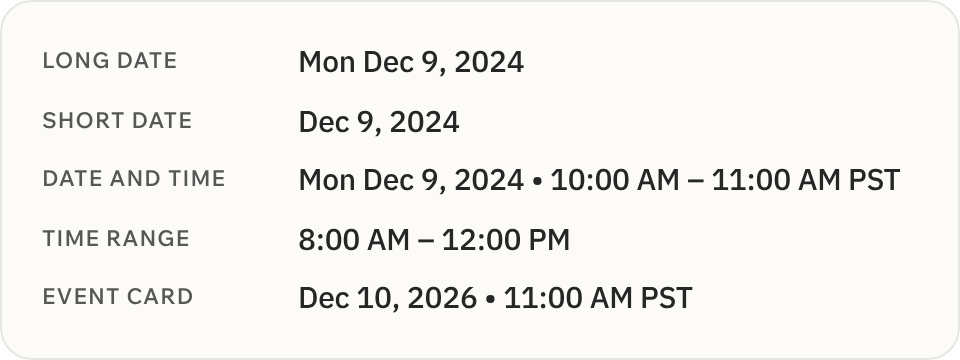
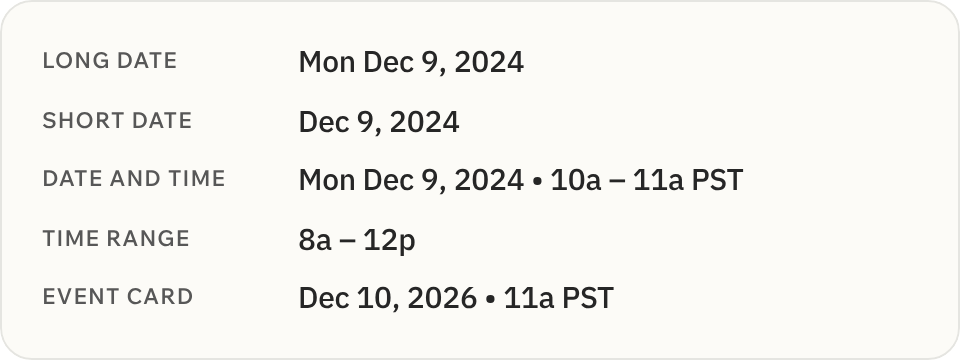
Short times (9a PST) on cards and drawers; comparison tabs scroll like Tabs
- The shared time format is now the short form: the hour and a lowercase a or p ("9a", "12p"), minutes only when they aren't :00 ("9:30a"), ranges with a spaced en dash ("8a – 12p"), then the time zone. Event and webinar cards show "Dec 10, 2026 • 11a PST"; drawer cards "8a – 12p"; the calendar list uses the same. Other spellings ("9:00 AM", "Noon") are rewritten. The calendar's time column is 170px (150px on tablet). Content guide and its date picture updated.
- FeatureMatrix and DetailComparison: the mobile competitor tabs are Tabs, so a tapped competitor near the edge scrolls to the middle and the last rests on the right. The previews get a fifth competitor so the tabs overflow and show it.

Why: EventCard: use the 9a PST format, including after the date
Why: EventCalendar: grid cards and times use the 9a PST format
Why: WebinarCard: dates and times match the event cards (9a PST)
Why: DrawerCard: use the 9a PST format, like the event cards
Why: Accordion: its session cards are drawer cards, so their times use the 9a format
Why: Carousel: its sample event card uses the 9a PST format
Why: Dates and times: the short 9a PST format is the one format for cards, drawers and the calendar
Why: FeatureMatrix: the mobile competitor tabs should scroll the tapped one to the middle, like Tabs
Why: DetailComparison: the mobile competitor tabs should scroll the tapped one to the middle, like Tabs
Why: Tabs: the comparison tables' competitor tabs behave the same
[…]

Changed region(s): [[0.5938, 0.4583, 0.9375, 0.55], [0.3125, 0.6111, 0.5938, 0.7028], [0.5625, 0.7944, 0.7188, 0.8556]]

diff --git a/ds/project/components/EventCalendar/preview.html b/ds/project/components/EventCalendar/preview.html
@@ -17,25 +17,25 @@ var logo = '/_blob/2f12addb8d68868ae064a58fad459a07';
 var who = [{name: 'Alex Morgan'}, {name: 'Priya Shah'}, {name: 'Sam Lee'}, {name: 'Dana Cruz'}];
 var events = [
   {id: 'd1', type: 'qualys', format: 'In-Person', title: 'QSC EMEA', start: '2024-12-03', end: '2024-12-05', href: '#'},
-  {id: 'd2', type: 'webinar', format: 'Virtual', title: 'Year in Review: The Vulnerabilities That Mattered', start: '2024-12-12', time: '10:00 AM – 11:00 AM PST', href: '#', speakers: who},
+  {id: 'd2', type: 'webinar', format: 'Virtual', title: 'Year in Review: The Vulnerabilities That Mattered', start: '2024-12-12', time: '10a – 11a PST', href: '#', speakers: who},
   {id: 'a1', type: 'industry', format: 'Virtual', title: 'Cloud Security Conference 2025', start: '2025-01-01', time: 'All day', href: '#', external: true},
-  {id: 'a2', type: 'industry', format: 'Virtual', title: 'Security Leaders Forum 2025', start: '2025-01-04', time: '9:00 AM – 5:00 PM PST', href: '#', external: true},
+  {id: 'a2', type: 'industry', format: 'Virtual', title: 'Security Leaders Forum 2025', start: '2025-01-04', time: '9a – 5p PST', href: '#', external: true},
   {id: 'a3', type: 'qualys', format: 'In-Person', title: 'QSC Americas', start: '2025-01-06', end: '2025-01-09', href: '#', flag: 'Upcoming'},
-  {id: 'a4', type: 'industry', format: 'Virtual', title: 'Scaling New Heights', start: '2025-01-08', time: '8:00 AM – 9:00 AM PST', href: '#', external: true},
-  {id: 'a5', type: 'webinar', format: 'Virtual', title: 'This Month in Vulnerabilities and Patches', start: '2025-01-09', time: '10:00 AM – 11:00 AM PST', href: '#', speakers: who},
-  {id: 'a6', type: 'training', format: 'In-Person', title: 'QSC Mumbai Training Day', start: '2025-01-13', time: '9:00 AM – 4:00 PM IST', href: '#'},
+  {id: 'a4', type: 'industry', format: 'Virtual', title: 'Scaling New Heights', start: '2025-01-08', time: '8a – 9a PST', href: '#', external: true},
+  {id: 'a5', type: 'webinar', format: 'Virtual', title: 'This Month in Vulnerabilities and Patches', start: '2025-01-09', time: '10a – 11a PST', href: '#', speakers: who},
+  {id: 'a6', type: 'training', format: 'In-Person', title: 'QSC Mumbai Training Day', start: '2025-01-13', time: '9a – 4p IST', href: '#'},
   {id: 'a7', type: 'qualys', format: 'In-Person', title: 'QSC Mumbai', start: '2025-01-13', end: '2025-01-15', href: '#'},
-  {id: 'a8', type: 'webinar', format: 'Virtual', title: 'Qualys Monthly Partner Webinar: New Qualys UI Features, RBAC Enhancements & EASM Risk Reports', start: '2025-01-14', time: '11:00 AM – 12:00 PM PST', href: '#', speakers: who.slice(0, 2)},
-  {id: 'a9', type: 'speaking', format: 'In-Person', title: 'Steps to TruRisk: Leveraging Qualys to Reduce Your Risk', start: '2025-01-17', time: '9:00 AM – 10:00 AM PST', href: '#'},
+  {id: 'a8', type: 'webinar', format: 'Virtual', title: 'Qualys Monthly Partner Webinar: New Qualys UI Features, RBAC Enhancements & EASM Risk Reports', start: '2025-01-14', time: '11a – 12p PST', href: '#', speakers: who.slice(0, 2)},
+  {id: 'a9', type: 'speaking', format: 'In-Person', title: 'Steps to TruRisk: Leveraging Qualys to Reduce Your Risk', start: '2025-01-17', time: '9a – 10a PST', href: '#'},
   {id: 'a10', type: 'industry', format: 'In-Person', title: 'Security Days 2025', start: '2025-01-21', end: '2025-01-23', href: '#', external: true},
-  {id: 'a11', type: 'webinar', format: 'Virtual', title: 'Beyond the Top 10: Advanced Security Strategies for Web Applications & APIs', start: '2025-01-22', time: '10:30 AM – 11:30 AM PST', href: '#', speakers: who},
-  {id: 'a12', type: 'webinar', format: 'Virtual', title: 'Securing Generative AI and LLMs with Qualys TotalAI', start: '2025-01-23', time: '4:10 PM – 4:50 PM PST', href: '#', speakers: who.slice(1), action: {label: 'Join Waitlist', variant: 'secondary-alt'}},
-  {id: 'a13', type: 'training', format: 'Virtual', title: 'VMDR Foundations Training', start: '2025-01-24', time: '9:00 AM – 12:00 PM PST', href: '#'},
-  {id: 'a14', type: 'webinar', format: 'Virtual', title: 'Accelerating Patch Remediation and Meeting SLAs', start: '2025-01-28', time: '8:00 AM – 9:00 AM PST', href: '#', speakers: who.slice(0, 3)},
-  {id: 'a15', type: 'speaking', format: 'Virtual', title: 'Measuring Cyber Risk in Business Terms', start: '2025-01-28', time: '11:00 AM – 12:00 PM PST', href: '#'},
-  {id: 'a16', type: 'webinar', format: 'Virtual', title: 'Securing Your Digital Transformation to the Cloud', start: '2025-01-29', time: '10:00 AM – 11:00 AM PST', href: '#', speakers: who},
+  {id: 'a11', type: 'webinar', format: 'Virtual', title: 'Beyond the Top 10: Advanced Security Strategies for Web Applications & APIs', start: '2025-01-22', time: '10:30a – 11:30a PST', href: '#', speakers: who},
+  {id: 'a12', type: 'webinar', format: 'Virtual', title: 'Securing Generative AI and LLMs with Qualys TotalAI', start: '2025-01-23', time: '4:10p – 4:50p PST', href: '#', speakers: who.slice(1), action: {label: 'Join Waitlist', variant: 'secondary-alt'}},
+  {id: 'a13', type: 'training', format: 'Virtual', title: 'VMDR Foundations Training', start: '2025-01-24', time: '9a – 12p PST', href: '#'},
+  {id: 'a14', type: 'webinar', format: 'Virtual', title: 'Accelerating Patch Remediation and Meeting SLAs', start: '2025-01-28', time: '8a – 9a PST', href: '#', speakers: who.slice(0, 3)},
+  {id: 'a15', type: 'speaking', format: 'Virtual', title: 'Measuring Cyber Risk in Business Terms', start: '2025-01-28', time: '11a – 12p PST', href: '#'},
+  {id: 'a16', type: 'webinar', format: 'Virtual', title: 'Securing Your Digital Transformation to the Cloud', start: '2025-01-29', time: '10a – 11a PST', href: '#', speakers: who},
   {id: 'f1', type: 'qualys', format: 'In-Person', title: 'QSC Europe', start: '2025-02-04', end: '2025-02-06', href: '#', flag: 'Upcoming'},
-  {id: 'f2', type: 'webinar', format: 'Virtual', title: 'Redesigned Qualys VMDR for ITSM: ServiceNow Integration Simplified', start: '2025-02-11', time: '10:00 AM – 11:30 AM PST', href: '#', speakers: who}
+  {id: 'f2', type: 'webinar', format: 'Virtual', title: 'Redesigned Qualys VMDR for ITSM: ServiceNow Integration Simplified', start: '2025-02-11', time: '10a – 11:30a PST', href: '#', speakers: who}
 ];
 var promo = {href: '#', logo: logo, icon: 'general-resource', title: 'Resource Center', description: 'Reports, guides and videos on measuring and reducing cyber risk.', cta: 'Visit Resource Center'};
 function cal(view, extra) {

diff --git a/ds/project/components/DetailComparison/preview.html b/ds/project/components/DetailComparison/preview.html
@@ -13,19 +13,19 @@
 var Q = window.Qualys, h = React.createElement;
 function cap(t) { return h('div', {className: 'cap'}, t); }
 var LOGO = '/_blob/a0d4062abbce2ceb87d5be08d326359f';
-var COLS = [{id: 'qualys', name: 'Qualys', logo: LOGO, subtitle: 'Optional Subheading'}, {id: 'wiz', name: 'Wiz', subtitle: 'Optional Subheading'}, {id: 'crowdstrike', name: 'CrowdStrike', subtitle: 'Optional Subheading'}, {id: 'paloalto', name: 'Palo Alto', subtitle: 'Optional Subheading'}, {id: 'rapid7', name: 'Rapid7', subtitle: 'Optional Subheading'}];
+var COLS = [{id: 'qualys', name: 'Qualys', logo: LOGO, subtitle: 'Optional Subheading'}, {id: 'wiz', name: 'Wiz', subtitle: 'Optional Subheading'}, {id: 'crowdstrike', name: 'CrowdStrike', subtitle: 'Optional Subheading'}, {id: 'paloalto', name: 'Palo Alto', subtitle: 'Optional Subheading'}, {id: 'rapid7', name: 'Rapid7', subtitle: 'Optional Subheading'}, {id: 'tenable', name: 'Tenable', subtitle: 'Optional Subheading'}];
 
 var A = 'Covers the entire Hybrid IT landscape, on-premises servers (Windows, Linux, Mac), workstations, 25% of servers, workstations, network devices, web applications, cloud assets, cloud databases, network devices, containers, cloud instances, and containers, etc.';
 var B = 'Covers servers, workstations, network devices, web applications, cloud assets, cloud databases, network devices, containers, cloud instances, and containers, cloud storage, smartphones, tablets, containers, and OT infrastructure.';
 var P = '[One or two sentences on how this vendor handles the topic.]';
-function all(v) { return {qualys: v, wiz: v, crowdstrike: v, paloalto: v, rapid7: v}; }
-var SECTIONS = [{title: 'Asset Coverage', open: true, heading: 'Optional Heading', copy: {qualys: A, wiz: A, crowdstrike: B, paloalto: B, rapid7: A}},
+function all(v) { return {qualys: v, wiz: v, crowdstrike: v, paloalto: v, rapid7: v, tenable: v}; }
+var SECTIONS = [{title: 'Asset Coverage', open: true, heading: 'Optional Heading', copy: {qualys: A, wiz: A, crowdstrike: B, paloalto: B, rapid7: A, tenable: B}},
   {title: '[Section Title]', heading: '[Optional Heading]', copy: all(P)}, {title: '[Section Title]', heading: '[Optional Heading]', copy: all(P)}, {title: '[Section Title]', heading: '[Optional Heading]', copy: all(P)}];
 function dc(extra) { return h(Q.DetailComparison, Object.assign({title: 'Heading', subtitle: 'Optional Subheading', columns: COLS, sections: SECTIONS}, extra)); }
 ReactDOM.createRoot(document.getElementById('root')).render(h('div', null,
   cap('Desktop: two competitors picked'), dc(),
   cap('Three competitors (the most)'), dc({defaultPicked: ['wiz', 'crowdstrike', 'rapid7'], sections: SECTIONS.slice(0, 2)}),
-  cap('Mobile: one competitor at a time'), h('div', {className: 'phones'}, h('div', {className: 'phone w390'}, dc()))));
+  cap('Mobile: one competitor at a time (tap one near the edge and the tabs scroll it to the middle)'), h('div', {className: 'phones'}, h('div', {className: 'phone w390'}, dc()))));
 </script>
 </body>
 </html>

diff --git a/ds/project/components/FeatureMatrix/preview.html b/ds/project/components/FeatureMatrix/preview.html
@@ -13,17 +13,17 @@
 var Q = window.Qualys, h = React.createElement;
 function cap(t) { return h('div', {className: 'cap'}, t); }
 var LOGO = '/_blob/a0d4062abbce2ceb87d5be08d326359f';
-var COLS = [{id: 'qualys', name: 'Qualys', logo: LOGO}, {id: 'wiz', name: 'Wiz'}, {id: 'crowdstrike', name: 'CrowdStrike'}, {id: 'paloalto', name: 'Palo Alto'}, {id: 'rapid7', name: 'Rapid7'}];
+var COLS = [{id: 'qualys', name: 'Qualys', logo: LOGO}, {id: 'wiz', name: 'Wiz'}, {id: 'crowdstrike', name: 'CrowdStrike'}, {id: 'paloalto', name: 'Palo Alto'}, {id: 'rapid7', name: 'Rapid7'}, {id: 'tenable', name: 'Tenable'}];
 
 var SECTIONS = [
-  {title: 'Asset Coverage', open: true, rows: [['IT Assets', 1, 1, 1, 0, 1], ['Cloud Assets', 1, 1, 1, 0, 1], ['Containers', 1, 1, 1, 1, 0], ['Mobile Devices', 1, 1, 0, 1, 0], ['Real-time IoT Discovery', 1, 1, 0, 1, 0], ['Web Applications', 1, 1, 1, 0, 0], ['EASM', 1, 0, 0, 0, 1], ['Attribution and Confidence Scoring', 1, 0, 1, 1, 1]]},
-  {title: '[Section Title]', rows: [['[Feature Name]', 1, 1, 0, 1, 1], ['[Feature Name]', 1, 0, 1, 1, 0], ['[Feature Name]', 1, 1, 1, 0, 0]]},
-  {title: '[Section Title]', rows: [['[Feature Name]', 1, 0, 1, 1, 1], ['[Feature Name]', 1, 1, 1, 0, 1], ['[Feature Name]', 1, 1, 0, 0, 1]]},
-  {title: '[Section Title]', rows: [['[Feature Name]', 1, 1, 1, 1, 0], ['[Feature Name]', 1, 0, 0, 1, 1], ['[Feature Name]', 1, 1, 0, 1, 0]]}];
+  {title: 'Asset Coverage', open: true, rows: [['IT Assets', 1, 1, 1, 0, 1, 1], ['Cloud Assets', 1, 1, 1, 0, 1, 0], ['Containers', 1, 1, 1, 1, 0, 1], ['Mobile Devices', 1, 1, 0, 1, 0, 1], ['Real-time IoT Discovery', 1, 1, 0, 1, 0, 0], ['Web Applications', 1, 1, 1, 0, 0, 1], ['EASM', 1, 0, 0, 0, 1, 0], ['Attribution and Confidence Scoring', 1, 0, 1, 1, 1, 1]]},
+  {title: '[Section Title]', rows: [['[Feature Name]', 1, 1, 0, 1, 1, 0], ['[Feature Name]', 1, 0, 1, 1, 0, 1], ['[Feature Name]', 1, 1, 1, 0, 0, 1]]},
+  {title: '[Section Title]', rows: [['[Feature Name]', 1, 0, 1, 1, 1, 1], ['[Feature Name]', 1, 1, 1, 0, 1, 0], ['[Feature Name]', 1, 1, 0, 0, 1, 1]]},
+  {title: '[Section Title]', rows: [['[Feature Name]', 1, 1, 1, 1, 0, 1], ['[Feature Name]', 1, 0, 0, 1, 1, 1], ['[Feature Name]', 1, 1, 0, 1, 0, 0]]}];
 function fm(extra) { return h(Q.FeatureMatrix, Object.assign({title: 'Heading', columns: COLS, sections: SECTIONS}, extra)); }
 ReactDOM.createRoot(document.getElementById('root')).render(h('div', null,
   cap('Desktop'), fm(),
-  cap('Mobile: pick a competitor; show differences only'), h('div', {className: 'phones'},
+  cap('Mobile: pick a competitor (tap one near the edge and the tabs scroll it to the middle); show differences only'), h('div', {className: 'phones'},
     h('div', {className: 'phone w390'}, fm()),
     h('div', {className: 'phone w390'}, fm({defaultCompare: 'paloalto', defaultDiffOnly: true})))));
 </script>

diff --git a/ds/project/components/index.d.ts b/ds/project/components/index.d.ts
@@ -341,7 +341,7 @@ export declare function Drawer(props: DrawerProps): React.ReactElement;
 
 export interface DrawerSpeaker { name: string; designation?: string; company?: string; /** company logo for the profile hover card */ logo?: string; logoAlt?: string; /** headshot URL; a placeholder shows without one */ image?: string; /** LinkedIn profile, drawn as the social icon in the profile hover card */ link?: { href: string; label?: string } }
 export interface DrawerCardProps {
-  /** overline above the title, e.g. "12:00 PM – 12:45 PM"; shorthand times ("12p – 12:45p") are rewritten to "h:mm AM" form */
+  /** overline above the title, e.g. "12p – 12:45p"; other spellings ("12:00 PM – 12:45 PM", "Noon") are rewritten to this short form */
   time?: React.ReactNode;
   /** up to 180 characters; clamps at two lines */
   title: React.ReactNode;
@@ -472,7 +472,7 @@ export interface EventCardProps extends ContentCardBase {
   category?: string;
   /** e.g. "Conference" */
   format?: string;
-  /** short date, bullet, start time: "Dec 10, 2026 • 11:00 AM PST" (a shorthand time after the bullet is rewritten) */
+  /** short date, bullet, start time: "Dec 10, 2026 • 11a PST" (another spelling after the bullet is rewritten) */
   date?: string;
   /** 'featured' = full width, image left, from 1024px */
   layout?: 'default' | 'featured';
@@ -491,7 +491,7 @@ export interface WebinarCardProps extends ContentCardBase {
   speakers?: CardPerson[];
   /** accessible name for the speaker group, default "Speakers" */
   speakersLabel?: string;
-  /** short date: "Dec 10, 2026", or "Dec 10, 2026 • 11:00 AM PST" for a live session */
+  /** short date: "Dec 10, 2026", or "Dec 10, 2026 • 11a PST" for a live session */
   date?: string;
   layout?: 'default' | 'featured';
   /** featured only */
@@ -1151,7 +1151,7 @@ export interface CalendarEvent {
   start: string | Date;
   /** last day, for an event of several days */
   end?: string | Date;
-  /** the time or range, e.g. "10:00 AM – 11:00 AM PST" or "All day"; shorthand ("10a – 11a PST") is rewritten. Cards show the start time only */
+  /** the time or range, e.g. "10a – 11a PST" or "All day"; other spellings ("10:00 AM – 11:00 AM PST") are rewritten. Cards show the start time only */
   time?: string;
   href?: string;
   /** open the link in a new tab */

diff --git a/ds/project/components/EventCard/preview.html b/ds/project/components/EventCard/preview.html
@@ -15,12 +15,12 @@ function sec(cap, cls, kids) { return h('div', null, h('div', {className: 'cap'}
 var body = 'Join practitioners and Qualys experts for a day of hands-on sessions on measuring, communicating, and eliminating cyber risk across your hybrid environment.';
 ReactDOM.createRoot(document.getElementById('root')).render(h('div', {className: 'pv'},
   sec('Default', 'cols c3', [
-    h(Q.EventCard, {href: '#', external: true, flag: 'In Person', category: 'Qualys Event', format: 'Conference', title: 'Securing Your Multi-Cloud Environment with TotalCloud', date: 'Dec 10, 2026 \u2022 11:00 AM PST'}),
-    h(Q.EventCard, {href: '#', external: true, flag: 'Virtual', flagTone: 'tier-2', category: 'Industry Event', format: 'Workshop', title: 'Managing Misconfigurations to Reduce Risk', date: 'Jan 14, 2027 \u2022 9:00 AM PST'}),
-    h(Q.EventCard, {href: '#', external: true, category: 'Training', format: 'Hands-On Lab', title: 'Reduce Risk and MTTR with Patch Management', date: 'Feb 3, 2027 \u2022 1:00 PM PST'})
+    h(Q.EventCard, {href: '#', external: true, flag: 'In Person', category: 'Qualys Event', format: 'Conference', title: 'Securing Your Multi-Cloud Environment with TotalCloud', date: 'Dec 10, 2026 \u2022 11a PST'}),
+    h(Q.EventCard, {href: '#', external: true, flag: 'Virtual', flagTone: 'tier-2', category: 'Industry Event', format: 'Workshop', title: 'Managing Misconfigurations to Reduce Risk', date: 'Jan 14, 2027 \u2022 9a PST'}),
+    h(Q.EventCard, {href: '#', external: true, category: 'Training', format: 'Hands-On Lab', title: 'Reduce Risk and MTTR with Patch Management', date: 'Feb 3, 2027 \u2022 1p PST'})
   ]),
   sec('Featured', '', [
-    h(Q.EventCard, {layout: 'featured', href: '#', external: true, flag: 'In Person', category: 'Qualys Event', format: 'Conference', title: 'Proactive Defense: Implementing Risk-Based Vulnerability Management', description: body, date: 'Dec 10, 2026 \u2022 11:00 AM PST'})
+    h(Q.EventCard, {layout: 'featured', href: '#', external: true, flag: 'In Person', category: 'Qualys Event', format: 'Conference', title: 'Proactive Defense: Implementing Risk-Based Vulnerability Management', description: body, date: 'Dec 10, 2026 \u2022 11a PST'})
   ])));
 </script>
 </body>

diff --git a/ds/bundle.src.js b/ds/bundle.src.js
@@ -25,19 +25,20 @@
     var sp = cut.lastIndexOf(' ');
     return (sp > max * 0.6 ? cut.slice(0, sp) : cut).replace(/[\s.,;:]+$/, '') + '…';
   }
-  /* Times read the same everywhere (drawers, calendar, event cards): "8:00 AM", a range "8:00 AM – 12:00 PM" with an en dash,
-     then the time zone if one is given. Shorthand such as "10a – 11a PST", "9:30am", "14:00" or "Noon" is rewritten;
+  /* Times read the same everywhere (drawer cards, the calendar, event cards), in the short form: the hour and a lowercase
+     a or p ("9a", "12p"), minutes only when they aren't :00 ("9:30a"), a range joined by a spaced en dash ("8a – 12p"),
+     then the time zone if one is given ("9a PST"). Other spellings ("9:00 AM", "9:30am", "14:00", "Noon") are rewritten;
      text it can't read ("Doors open at 6") is shown as given. startOnly keeps the start time (and the zone). */
   function clockOf(v, ap0) {
     var s = String(v).trim().toLowerCase().replace(/\./g, '');
-    if (s === 'noon') return '12:00 PM';
-    if (s === 'midnight') return '12:00 AM';
+    if (s === 'noon') return '12p';
+    if (s === 'midnight') return '12a';
     var m = /^(\d{1,2})(?::(\d{2}))?\s*(am|pm|a|p)?$/.exec(s); if (!m) return null;
     var hh = +m[1], mm = m[2] || '00', ap = m[3] ? m[3].charAt(0) : ap0 || null;
     if (+mm > 59) return null;
     if (!ap) { if (!m[2] || hh > 23) return null; ap = hh >= 12 ? 'p' : 'a'; hh = hh % 12 || 12; }
     else if (hh < 1 || hh > 12) return null;
-    return hh + ':' + mm + ' ' + (ap === 'p' ? 'PM' : 'AM');
+    return hh + (mm === '00' ? '' : ':' + mm) + ap;
   }
   function timeText(t, startOnly) {
     if (typeof t !== 'string' || !t.trim()) return t;
@@ -47,7 +48,7 @@
     var parts = (zone ? s.slice(0, zm.index) : s).split(/\s*(?:[\u2013\u2014-]|\bto\b)\s*/);
     if (parts.length > 2) return t;
     var b = parts.length > 1 ? clockOf(parts[1]) : null;
-    var a = clockOf(parts[0]) || (b ? clockOf(parts[0], b.slice(-2) === 'PM' ? 'p' : 'a') : null);
+    var a = clockOf(parts[0]) || (b ? clockOf(parts[0], b.slice(-1)) : null);
     if (!a || (parts.length > 1 && !b)) return t;
     return (startOnly || !b ? a : a + ' \u2013 ' + b) + (zone ? ' ' + zone : '');
   }

diff --git a/ds/project/components/bundle.js b/ds/project/components/bundle.js
@@ -25,19 +25,20 @@
     var sp = cut.lastIndexOf(' ');
     return (sp > max * 0.6 ? cut.slice(0, sp) : cut).replace(/[\s.,;:]+$/, '') + '…';
   }
-  /* Times read the same everywhere (drawers, calendar, event cards): "8:00 AM", a range "8:00 AM – 12:00 PM" with an en dash,
-     then the time zone if one is given. Shorthand such as "10a – 11a PST", "9:30am", "14:00" or "Noon" is rewritten;
+  /* Times read the same everywhere (drawer cards, the calendar, event cards), in the short form: the hour and a lowercase
+     a or p ("9a", "12p"), minutes only when they aren't :00 ("9:30a"), a range joined by a spaced en dash ("8a – 12p"),
+     then the time zone if one is given ("9a PST"). Other spellings ("9:00 AM", "9:30am", "14:00", "Noon") are rewritten;
      text it can't read ("Doors open at 6") is shown as given. startOnly keeps the start time (and the zone). */
   function clockOf(v, ap0) {
     var s = String(v).trim().toLowerCase().replace(/\./g, '');
-    if (s === 'noon') return '12:00 PM';
-    if (s === 'midnight') return '12:00 AM';
+    if (s === 'noon') return '12p';
+    if (s === 'midnight') return '12a';
     var m = /^(\d{1,2})(?::(\d{2}))?\s*(am|pm|a|p)?$/.exec(s); if (!m) return null;
     var hh = +m[1], mm = m[2] || '00', ap = m[3] ? m[3].charAt(0) : ap0 || null;
     if (+mm > 59) return null;
     if (!ap) { if (!m[2] || hh > 23) return null; ap = hh >= 12 ? 'p' : 'a'; hh = hh % 12 || 12; }
     else if (hh < 1 || hh > 12) return null;
-    return hh + ':' + mm + ' ' + (ap === 'p' ? 'PM' : 'AM');
+    return hh + (mm === '00' ? '' : ':' + mm) + ap;
   }
   function timeText(t, startOnly) {
     if (typeof t !== 'string' || !t.trim()) return t;
@@ -47,7 +48,7 @@
     var parts = (zone ? s.slice(0, zm.index) : s).split(/\s*(?:[\u2013\u2014-]|\bto\b)\s*/);
     if (parts.length > 2) return t;
     var b = parts.length > 1 ? clockOf(parts[1]) : null;
-    var a = clockOf(parts[0]) || (b ? clockOf(parts[0], b.slice(-2) === 'PM' ? 'p' : 'a') : null);
+    var a = clockOf(parts[0]) || (b ? clockOf(parts[0], b.slice(-1)) : null);
     if (!a || (parts.length > 1 && !b)) return t;
     return (startOnly || !b ? a : a + ' \u2013 ' + b) + (zone ? ' ' + zone : '');
   }

diff --git a/ds/project/components/bundle.css b/ds/project/components/bundle.css
@@ -1811,8 +1811,8 @@ a:hover .q-mega__arrow, a:focus-visible .q-mega__arrow { opacity: 1; transform: 
 .q-cal__rows { margin: var(--spacing-3xs) 0 0; padding: 0 var(--spacing-xl); border-radius: var(--radius-lg); background: var(--surface-neutral-100); box-shadow: var(--shadow-card); list-style: none; }
 .q-cal__row { display: flex; align-items: center; gap: var(--spacing-lg); min-height: 50px; padding: var(--spacing-xl) 0; }
 .q-cal__row + .q-cal__row { border-top: 1px solid var(--stroke-neutral-400); }
-/* Wide enough for the longest range on one line: "10:00 AM – 11:30 AM PST" */
-.q-cal__time { flex: 0 0 200px; font-family: var(--font-body); font-weight: 500; font-size: 16px; line-height: 1.3; letter-spacing: -0.01em; letter-spacing: -1%; color: var(--text-secondary); }
+/* Wide enough for a range with minutes on one line: "10:30a – 11:30a PST" */
+.q-cal__time { flex: 0 0 170px; font-family: var(--font-body); font-weight: 500; font-size: 16px; line-height: 1.3; letter-spacing: -0.01em; letter-spacing: -1%; color: var(--text-secondary); }
 .q-cal__type { flex: none; }
 .q-cal__type .q-event__label { position: absolute; width: 1px; height: 1px; margin: -1px; overflow: hidden; clip: rect(0 0 0 0); white-space: nowrap; }
 .q-cal__rowtitle { display: -webkit-box; flex: 1; min-width: 0; overflow: hidden; -webkit-box-orient: vertical; -webkit-line-clamp: 2; font-family: var(--font-heading); font-weight: 600; font-size: 18px; line-height: 1.1; letter-spacing: -0.01em; letter-spacing: -1%; text-decoration: none; color: var(--text-primary); }
@@ -1841,7 +1841,7 @@ a.q-cal__rowtitle:focus-visible { outline: none; border-radius: var(--radius-xs)
   .q-cal__stack { gap: var(--spacing-4xs); padding-inline: var(--spacing-4xs); }
   .q-cal__emeta { display: none; }
   .q-cal__etitle { overflow: hidden; text-overflow: ellipsis; white-space: nowrap; }
-  .q-cal__time { flex-basis: 180px; }
+  .q-cal__time { flex-basis: 150px; }
   .q-cal__grid { grid-template-columns: repeat(2, minmax(0, 1fr)); }
 }
 @container (max-width: 767px) {

diff --git a/ds/project/components/Carousel/preview.html b/ds/project/components/Carousel/preview.html
@@ -14,7 +14,7 @@ var Q = window.Qualys, h = React.createElement;
 function cap(t) { return h('div', {className: 'cap'}, t); }
 function phone(t, node) { return h('div', null, cap(t).props.children ? h('div', {className: 'cap', style: {paddingLeft: 0}}, t) : null, h('div', {className: 'phone'}, node)); }
 function res(i) { return h(Q.ResourceCard, {key: i, href: '#', external: true, flag: i === 1 ? undefined : 'Tag Text', resourceType: 'Resource Type', title: 'This is a Resource Title Lorem Ipsum Dolor', date: 'Dec 10, 2025'}); }
-function ev(i) { return h(Q.EventCard, {key: i, layout: 'featured', href: '#', external: true, flag: 'Tag Text', category: 'Event Type', format: 'Event Format', title: 'This is an Event Title Lorem Ipsum Dolor', description: 'Lorem ipsum dolor sit amet, consectetur adipiscing elit, sed do eiusmod tempor incididunt ut labore et dolore magna aliqua. Ut enim ad minim veniam, quis nostrud exercitation ullamco laboris ipsum dolor sit amet, consectetur.', date: 'Dec 10, 2026 • 11:00 AM PST'}); }
+function ev(i) { return h(Q.EventCard, {key: i, layout: 'featured', href: '#', external: true, flag: 'Tag Text', category: 'Event Type', format: 'Event Format', title: 'This is an Event Title Lorem Ipsum Dolor', description: 'Lorem ipsum dolor sit amet, consectetur adipiscing elit, sed do eiusmod tempor incididunt ut labore et dolore magna aliqua. Ut enim ad minim veniam, quis nostrud exercitation ullamco laboris ipsum dolor sit amet, consectetur.', date: 'Dec 10, 2026 • 11a PST'}); }
 function multi() { return h(Q.Carousel, {label: 'Resources'}, [0, 1, 2, 3, 4, 5].map(res)); }
 function headed() { return h(Q.Carousel, {title: 'The Latest in Enterprise Cyber Risk and Security', link: {label: 'View All Resources', href: '#'}}, [0, 1, 2, 3, 4, 5].map(res)); }
 ReactDOM.createRoot(document.getElementById('root')).render(h('div', null,

diff --git a/ds/project/components/Accordion/preview.html b/ds/project/components/Accordion/preview.html
@@ -28,12 +28,12 @@ var speaker = [{name: 'Sumedh Thakar', designation: 'President and CEO, Qualys'}
 function reg() { return h(Q.Button, {variant: 'secondary'}, 'Register'); }
 function wait() { return h(Q.Button, {variant: 'secondary-alt'}, 'Join Waitlist'); }
 var sessions = [
-  ['8:00 AM \u2013 12:00 PM', 'Proactive Defense: Implementing Risk-Based Vulnerability Management with Qualys TruRisk'],
-  ['8:00 AM \u2013 12:00 PM', 'Securing your Multi-Cloud Environment with TotalCloud 2.0'],
-  ['8:00 AM \u2013 12:00 PM', 'Managing Misconfigurations: Leveraging Qualys Policy Compliance to Reduce Risk'],
-  ['1:00 PM \u2013 5:00 PM', 'Reduce Risk and MTTR everywhere using Qualys Patch Management'],
-  ['1:00 PM \u2013 5:00 PM', 'Secure Kubernetes and Containers from Build to Runtime with Qualys TotalCloud'],
-  ['1:00 PM \u2013 5:00 PM', 'Beyond Inventory: Strategic Asset Risk Operations with Qualys CSAM']
+  ['8a \u2013 12p', 'Proactive Defense: Implementing Risk-Based Vulnerability Management with Qualys TruRisk'],
+  ['8a \u2013 12p', 'Securing your Multi-Cloud Environment with TotalCloud 2.0'],
+  ['8a \u2013 12p', 'Managing Misconfigurations: Leveraging Qualys Policy Compliance to Reduce Risk'],
+  ['1p \u2013 5p', 'Reduce Risk and MTTR everywhere using Qualys Patch Management'],
+  ['1p \u2013 5p', 'Secure Kubernetes and Containers from Build to Runtime with Qualys TotalCloud'],
+  ['1p \u2013 5p', 'Beyond Inventory: Strategic Asset Risk Operations with Qualys CSAM']
 ].map(function (s, i) { return {time: s[0], title: s[1], content: body, speakers: speaker, cta: i === 2 || i === 4 ? wait() : reg()}; });
 ReactDOM.createRoot(document.getElementById('root')).render(
   h('div', {className: 'pv', style: {gap: 32}},

diff --git a/ds/overview/parts/10-g1.js b/ds/overview/parts/10-g1.js
@@ -31,5 +31,5 @@ viz('g1-punct', {display: 'flex', flexDirection: 'column', gap: 12},
   h('div', {style: {borderTop: '1px solid var(--stroke-neutral-400)', paddingTop: 12}}, dd(false, 'One platform ', bad('-'), ' every asset.')));
 
 viz('g1-dates', null, h('div', {className: 'grid2', style: {gridTemplateColumns: '112px 1fr', rowGap: 10}},
-  [['Long date', 'Mon Dec 9, 2024'], ['Short date', 'Dec 9, 2024'], ['Date and time', 'Mon Dec 9, 2024 • 10:00 AM – 11:00 AM PST'], ['Time range', '8:00 AM – 12:00 PM'], ['Event card', 'Dec 10, 2026 • 11:00 AM PST']].map(function (r) {
+  [['Long date', 'Mon Dec 9, 2024'], ['Short date', 'Dec 9, 2024'], ['Date and time', 'Mon Dec 9, 2024 • 10a – 11a PST'], ['Time range', '8a – 12p'], ['Event card', 'Dec 10, 2026 • 11a PST']].map(function (r) {
     return [t('cap', r[0], {key: r[0] + 'l'}), h('span', {key: r[0], style: {fontFamily: 'var(--font-body)', fontWeight: 500, fontSize: 15, lineHeight: 1.3, letterSpacing: '-.01em', whiteSpace: 'pre'}}, r[1])]; })));

diff --git a/ds/project/components/DrawerCard/preview.html b/ds/project/components/DrawerCard/preview.html
@@ -37,7 +37,7 @@ var body = 'Master proactive defense strategies through comprehensive risk-based
 function reg() { return h(Q.Button, {variant: 'secondary'}, 'Register'); }
 function wait() { return h(Q.Button, {variant: 'secondary-alt'}, 'Join Waitlist'); }
 function card(n, extra) {
-  return h(Q.DrawerCard, Object.assign({key: n + JSON.stringify(extra || {}), time: '12:00 PM \u2013 12:45 PM', title: 'The Evolution of the Qualys Platform', speakers: P.slice(0, n)}, extra), body);
+  return h(Q.DrawerCard, Object.assign({key: n + JSON.stringify(extra || {}), time: '12p \u2013 12:45p', title: 'The Evolution of the Qualys Platform', speakers: P.slice(0, n)}, extra), body);
 }
 /* The rule for a closed card, by number of profiles. Each group shows the card without and with a button. */
 var RULES = [
